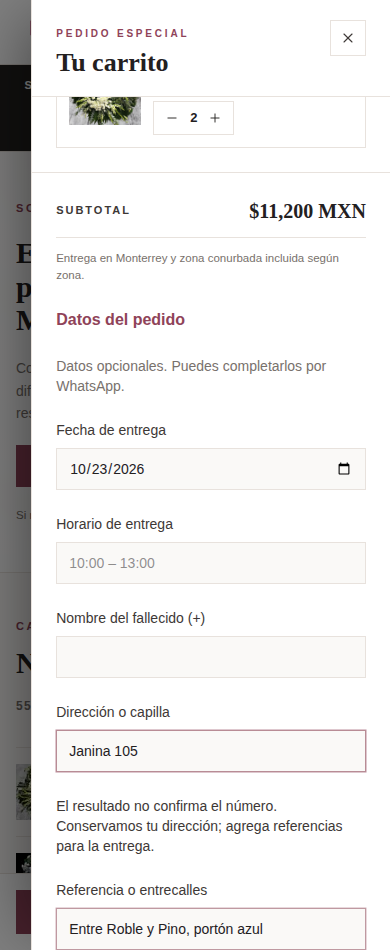
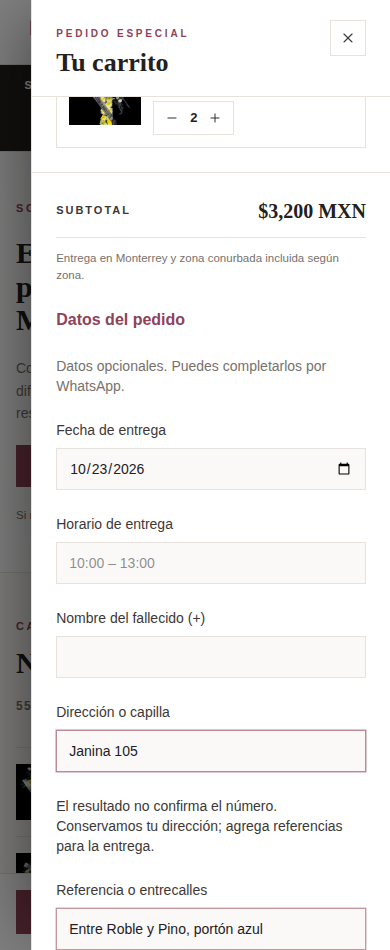
Default catalogs to ascending price order

Changed region(s): [[0.1538, 0.0916, 0.3692, 0.1526], [0.0308, 0.7937, 0.0923, 0.9158], [0.6462, 0.2137, 0.7077, 0.2442]]

diff --git a/public/scripts/tienda.js b/public/scripts/tienda.js
@@ -33,7 +33,7 @@
   const state = {
     occasion: 'Todas',
     maxPrice: maxPriceInputEl ? Number(maxPriceInputEl.value) || precioMax : precioMax,
-    order: 'price-desc',
+    order: 'price-asc',
     favoritesOnly: false,
   };
   const CART_KEY = 'florella-cart-v1';
@@ -108,7 +108,7 @@
     const resultsCount = $('#results-count');
     if (resultsCount) resultsCount.textContent = shown + (shown === 1 ? ' arreglo' : ' arreglos') + (state.favoritesOnly ? ' en favoritos' : '');
     const resultsBar = $('#results-bar');
-    if (resultsBar) resultsBar.hidden = state.occasion === 'Todas' && state.maxPrice === precioMax && !state.favoritesOnly && state.order === 'price-desc';
+    if (resultsBar) resultsBar.hidden = state.occasion === 'Todas' && state.maxPrice === precioMax && !state.favoritesOnly && state.order === 'price-asc';
     const emptyProducts = $('#empty-products');
     if (emptyProducts) emptyProducts.hidden = shown > 0;
     const favToggleState = $('#favorites-toggle');
@@ -117,10 +117,10 @@
   }
 
   function resetFilters() {
-    Object.assign(state, { occasion: 'Todas', maxPrice: precioMax, order: 'price-desc', favoritesOnly: false });
+    Object.assign(state, { occasion: 'Todas', maxPrice: precioMax, order: 'price-asc', favoritesOnly: false });
     if (maxPriceInputEl) maxPriceInputEl.value = String(precioMax);
     const sortReset = $('#sort');
-    if (sortReset) sortReset.value = 'price-desc';
+    if (sortReset) sortReset.value = 'price-asc';
     applyFilters();
   }
   $$('[data-occasion]').forEach((button) => button.addEventListener('click', () => {

diff --git a/src/data/catalogo.js b/src/data/catalogo.js
@@ -82,8 +82,8 @@ function normalizar(data, config) {
             imagen: img ? img.url : null,
           };
         })
-        // Precio: del mas caro al mas barato por defecto.
-        .sort((a, b) => b.precio - a.precio);
+        // Precio: del mas barato al mas caro por defecto.
+        .sort((a, b) => a.precio - b.precio);
 
       return { id: cat.id, nombre, slug, productos };
     })

diff --git a/BITACORA.md b/BITACORA.md
@@ -35,3 +35,7 @@ Franja de servicio actualizada por instrucción del propietario: envío exprés 
 ### Microsoft Clarity
 
 Snippet del proyecto `z2e7cyheo6` instalado una vez en el head de `src/layouts/Layout.astro`, compartido por todas las páginas. Carga asíncrona sin dependencias nuevas.
+
+### Orden del catálogo
+
+Precio de menor a mayor por defecto en datos del catálogo, selector y filtros del navegador. Limpiar filtros restaura ese orden; sigue disponible el orden descendente y por nombre.
